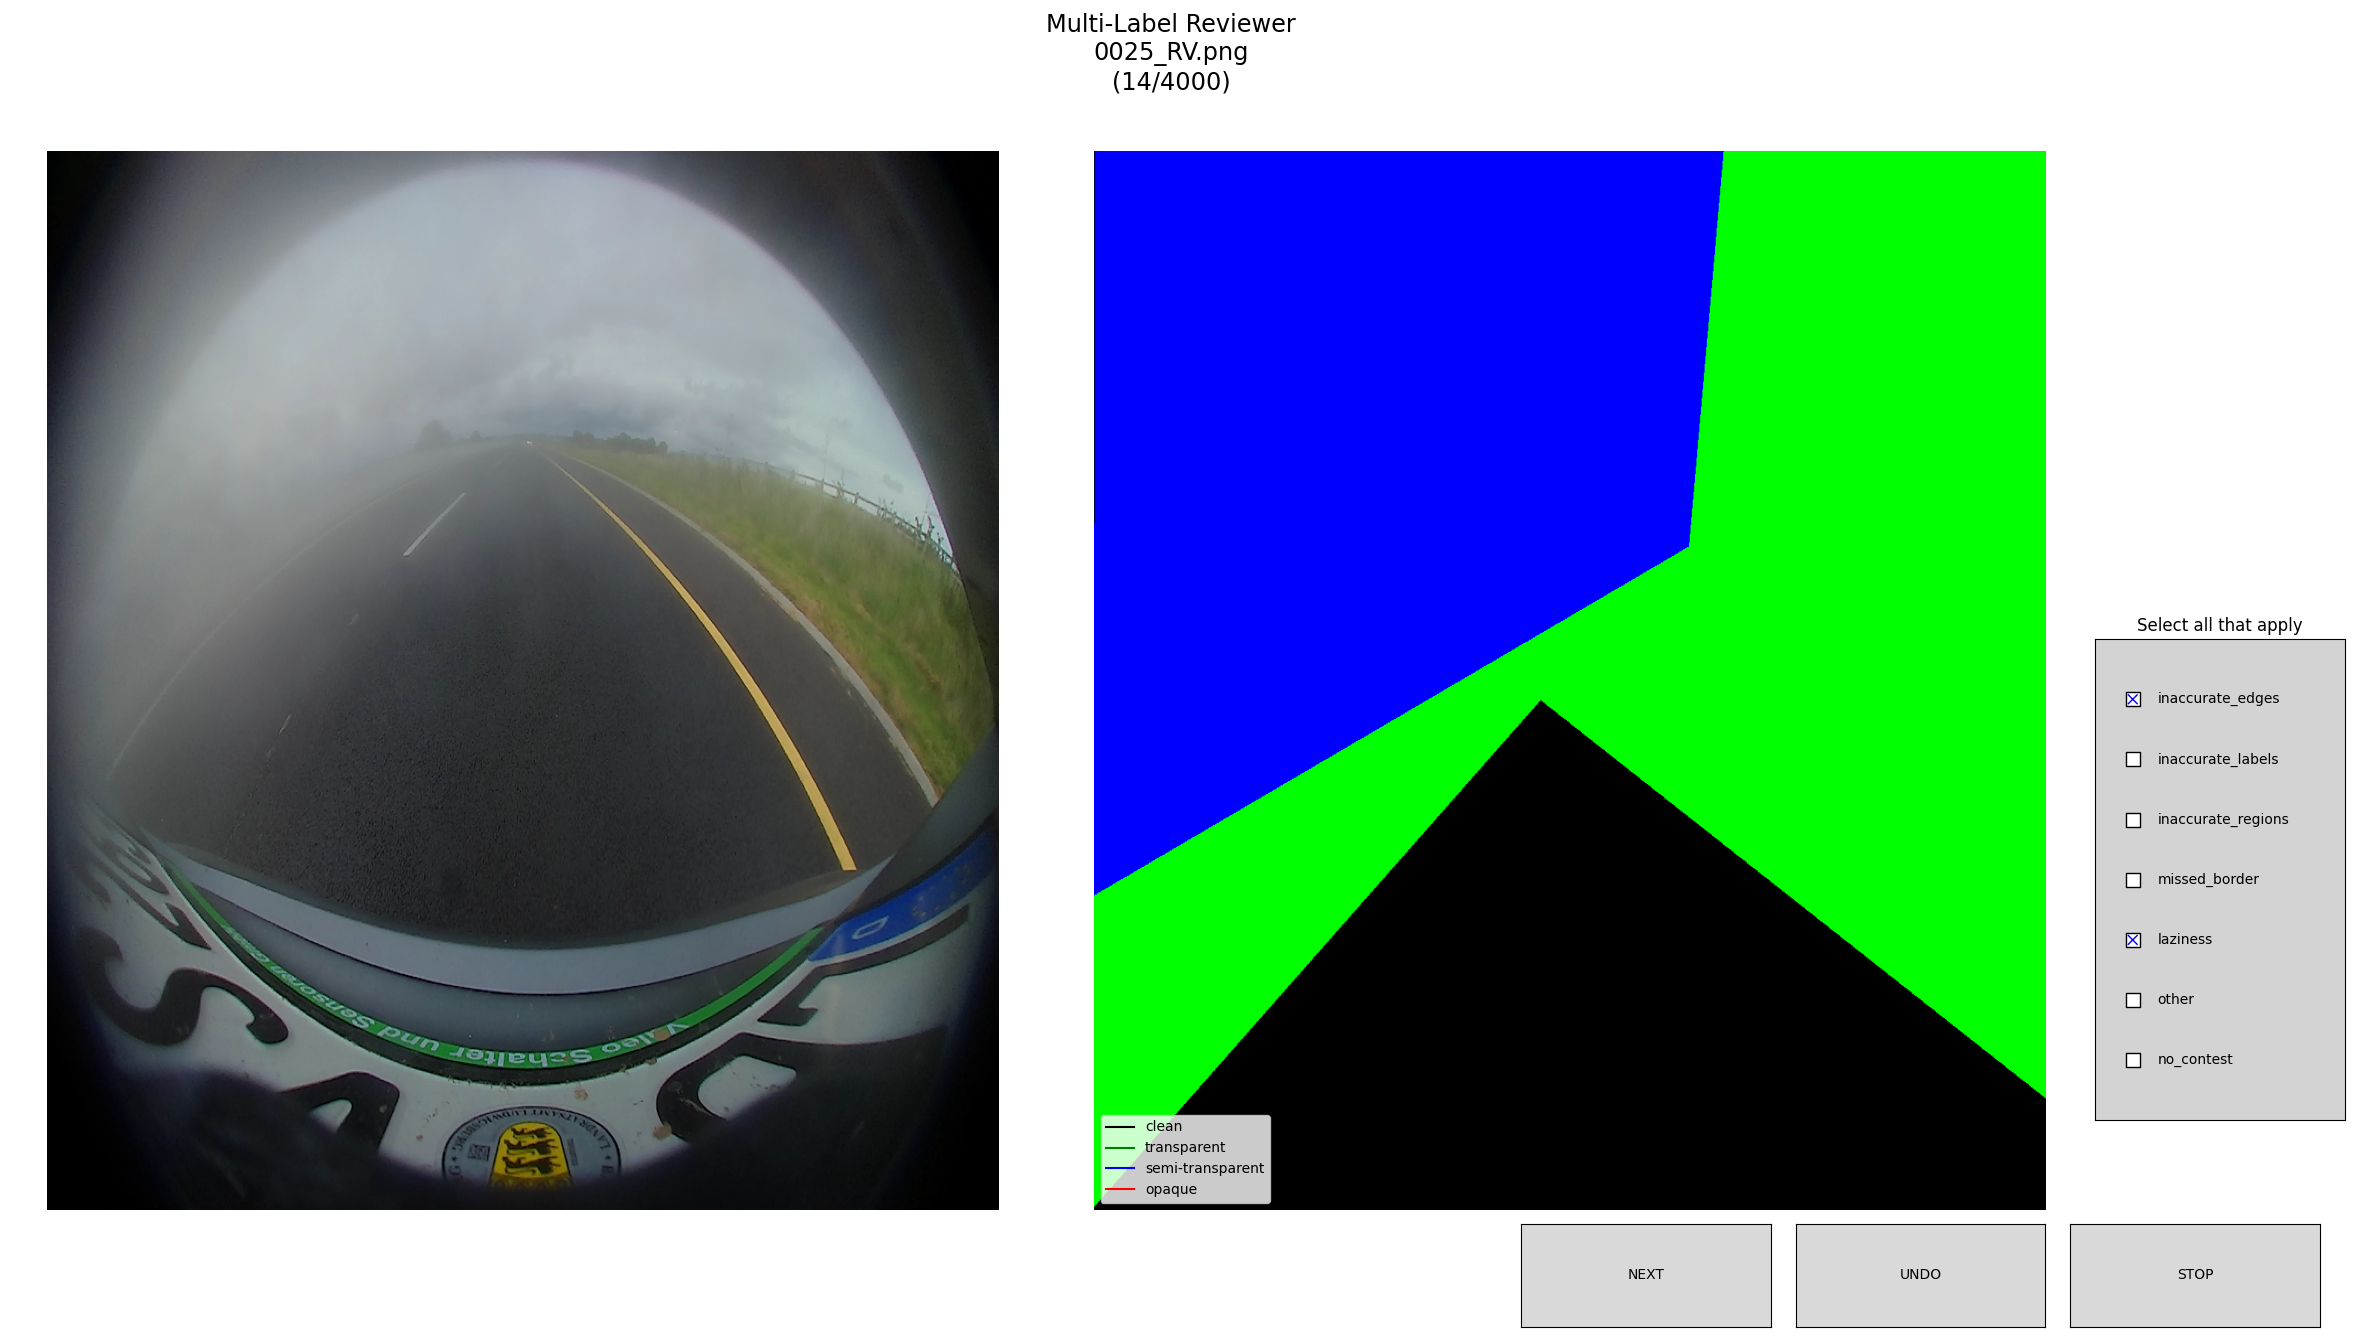
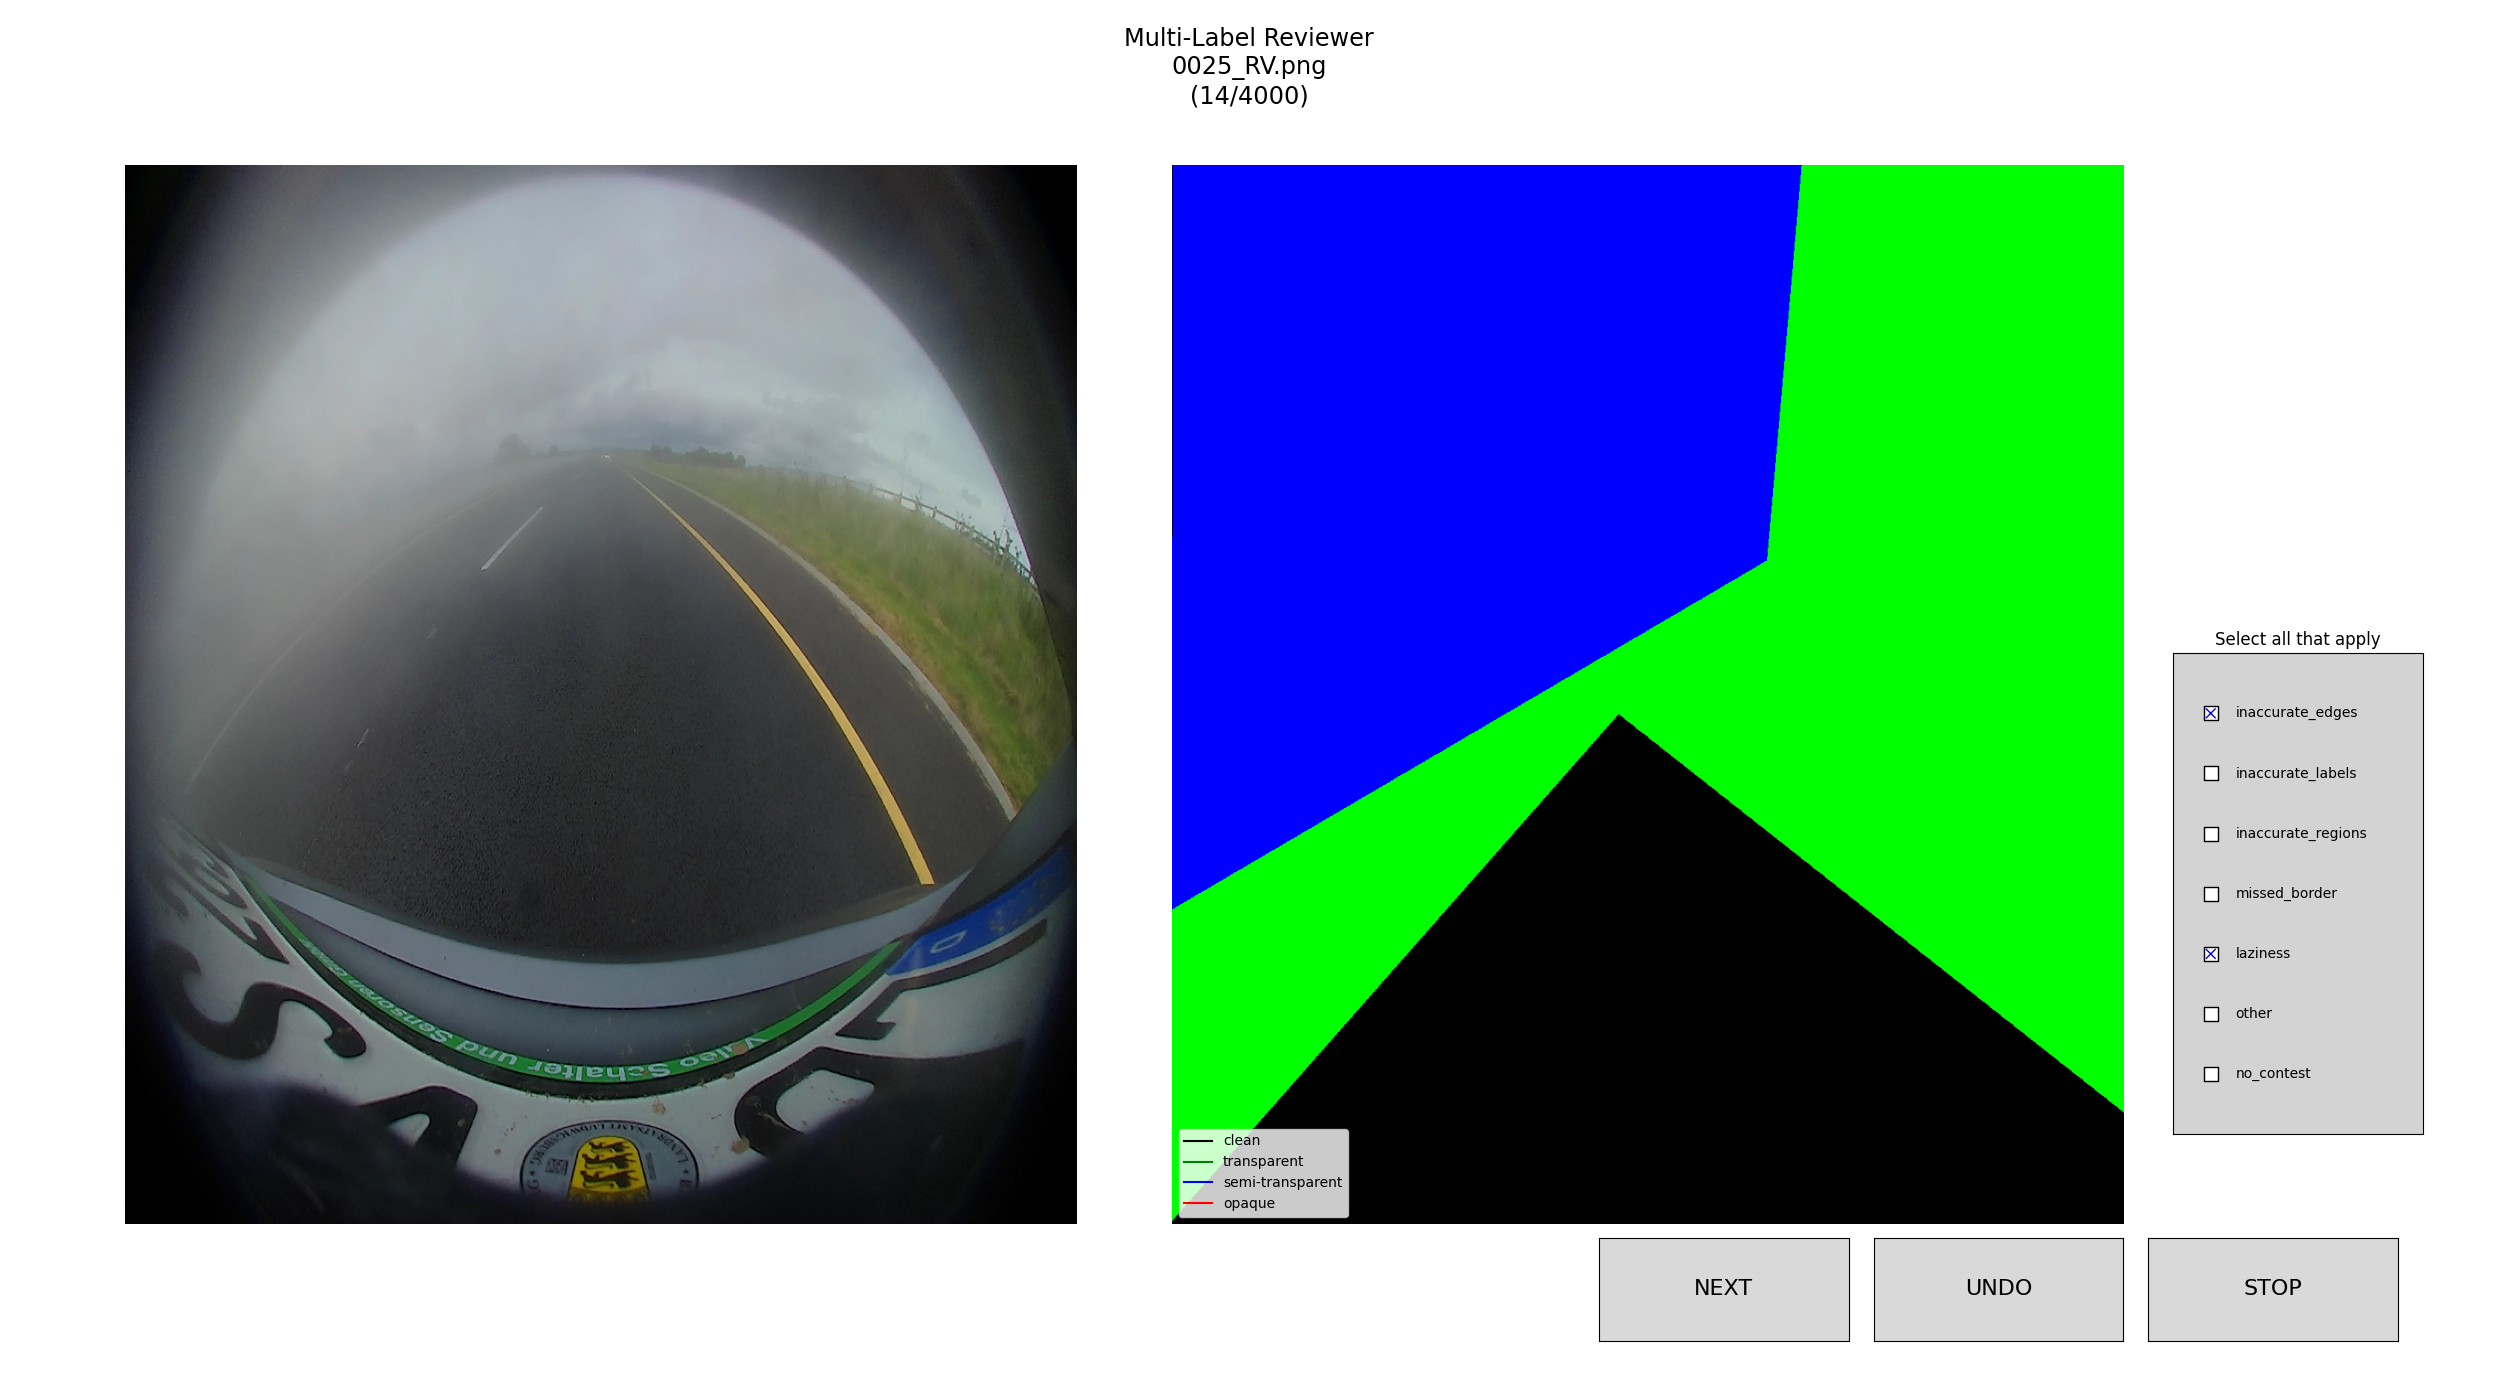
updated the basic viewer to use the ReviewerButton wrapper class properly and universally increased button label sizes

Changed region(s): [[0.0, 0.0, 0.9954, 1.0], [0.6843, 0.3055, 0.7154, 0.3972], [0.2799, 0.3055, 0.3111, 0.3361]]

diff --git a/sideeye_reviewer/core/viewer.py b/sideeye_reviewer/core/viewer.py
@@ -5,6 +5,7 @@ from matplotlib.animation import FuncAnimation
 from PIL import Image
 from typing import List
 # local imports
+from .reviewer_button import ReviewerButton
 from sideeye_reviewer.utils.utils import maximize_window
 
 
@@ -54,29 +55,17 @@ class SortResultsViewer:
 
     def create_buttons(self):
         self.buttons = {
-            "prev": Button(plt.axes([0.52, 0.025, 0.1, 0.075]), "PREVIOUS"),
-            "next": Button(plt.axes([0.63, 0.025, 0.1, 0.075]), "NEXT"),
-            "start": Button(plt.axes([0.74, 0.025, 0.1, 0.075]), "START"),
-            "stop": Button(plt.axes([0.85, 0.025, 0.1, 0.075]), "STOP"),
+            "prev": ReviewerButton.factory(self.fig, label="PREVIOUS", ax_pos=[0.41, 0.025, 0.1, 0.075], callback=self._on_prev_clicked),
+            "next": ReviewerButton.factory(self.fig, label="NEXT", ax_pos=[0.52, 0.025, 0.1, 0.075], callback=self._on_next_clicked),
+            "start": ReviewerButton.factory(self.fig, label="START", ax_pos=[0.63, 0.025, 0.1, 0.075], callback=self.start_animation),
+            "stop": ReviewerButton.factory(self.fig, label="STOP", ax_pos=[0.74, 0.025, 0.1, 0.075], callback=self.stop_animation),
+            "exit": ReviewerButton.factory(self.fig, label="EXIT", ax_pos=[0.85, 0.025, 0.1, 0.075], callback=self._on_close)
         }
-        # TODO: might want to add an 'exit' button to exit more cleanly
-        self.buttons["start"].on_clicked(self.start_animation)
-        self.buttons["stop"].on_clicked(self.stop_animation)
-        # We also handle next/prev in a single callback
-        self.fig.canvas.mpl_connect("button_press_event", self.on_button_click)
 
     def set_animator(self):
         secs_per_frame = 2.5
         self.ani = FuncAnimation(self.fig, self.update_frame, interval=secs_per_frame * 1000, repeat=True, cache_frame_data=False)
-        # We'll manually start/stop it by toggling self.playing_animation
-
-    def on_button_click(self, event):
-        if event.inaxes == self.buttons["next"].ax:
-            self.curr_idx = (self.curr_idx + 1) % self.num_reviewed
-            self.update_display(self.curr_idx)
-        elif event.inaxes == self.buttons["prev"].ax:
-            self.curr_idx = (self.curr_idx - 1) % self.num_reviewed
-            self.update_display(self.curr_idx)
+        # manually start/stop it by toggling self.playing_animation
 
     def update_frame(self, frame):
         if self.playing_animation:
@@ -94,6 +83,14 @@ class SortResultsViewer:
             wrap=True
         )
         self.fig.canvas.draw()
+
+    def _on_prev_clicked(self, event):
+        self.curr_idx = (self.curr_idx - 1) % self.num_reviewed
+        self.update_display(self.curr_idx)
+
+    def _on_next_clicked(self, event):
+        self.curr_idx = (self.curr_idx + 1) % self.num_reviewed
+        self.update_display(self.curr_idx)
 
     def start_animation(self, event):
         self.playing_animation = True

diff --git a/sideeye_reviewer/core/base_reviewer.py b/sideeye_reviewer/core/base_reviewer.py
@@ -69,13 +69,12 @@ class BaseReviewer:
         )
         self.stop_button = ReviewerButton.factory(
             fig=self.fig,
+            # TODO: might want to change all instances of "STOP" buttons to "EXIT" for consistency with the viewer
             label="STOP",
             ax_pos=[0.86, 0.025, 0.10, 0.075],
             callback=self.on_stop_clicked
         )
 
-    # TODO: create callback factory method that accepts a function as an argument and wraps it in a callback function
-    #^#########################################################################
     def on_undo_clicked(self, event):
         # Undo means remove the last file->labels association from the sorter
         self.sorter.update_bin(labels=None, remove=True)
@@ -86,7 +85,6 @@ class BaseReviewer:
 
     def on_stop_clicked(self, event):
         self.stop_review()
-    #^#########################################################################
 
     def stop_review(self):
         """ writes final results and sets the internal stop flag to exit the main loop """
@@ -124,7 +122,7 @@ class BaseReviewer:
         )
 
     def display_warning(self, message="Warning!", duration=3000):
-        txt = self.fig.text(0.5, 0.15, message, ha='center', va='center', fontsize=18, color='red')
+        txt = self.fig.text(0.5, 0.3, message, ha='center', va='center', fontsize=18, color='red')
         self.fig.canvas.draw()
         def remove_text():
             try:

diff --git a/sideeye_reviewer/core/unilabel_reviewer.py b/sideeye_reviewer/core/unilabel_reviewer.py
@@ -48,6 +48,7 @@ class SingleLabelReviewer(BaseReviewer):
             for label, color in self.legend_dict.items():
                 plt.plot([], [], color=color, label=label)
             plt.legend(loc="lower left", fontsize="medium")
+        self.fig.subplots_adjust(left=0.05, right=0.95)  # images use 0-0.95 of the width
 
     def begin_review(self, checkpoint=True):
         """ Override to add a step to create label buttons after the base figure is created but before the main loop starts. """

diff --git a/sideeye_reviewer/core/reviewer_button.py b/sideeye_reviewer/core/reviewer_button.py
@@ -22,6 +22,7 @@ class ReviewerButton:
         """ Actually create the Axes and the Button, then attach the callback """
         ax = fig.add_axes(self.ax_pos)
         self.button_widget = Button(ax, self.label, hovercolor=self.hovercolor)
+        self.button_widget.label.set_fontsize(16)
         self.button_widget.on_clicked(self.callback)
 
     @staticmethod
